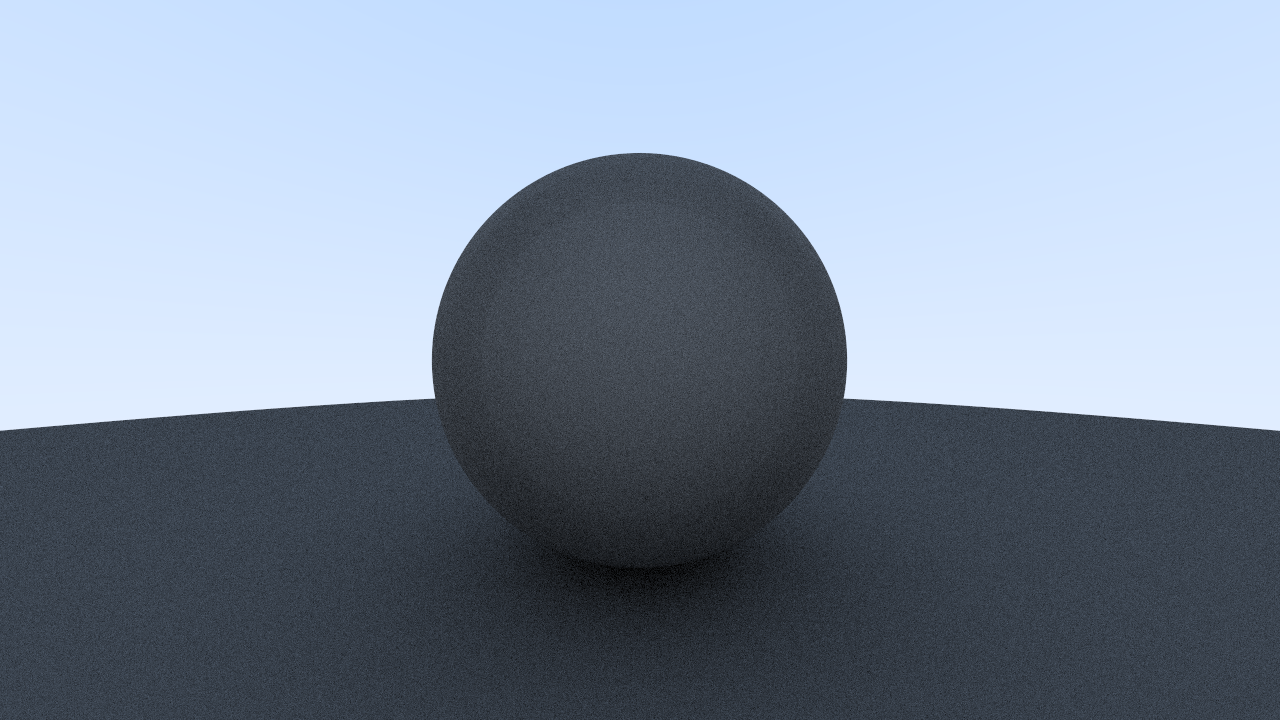
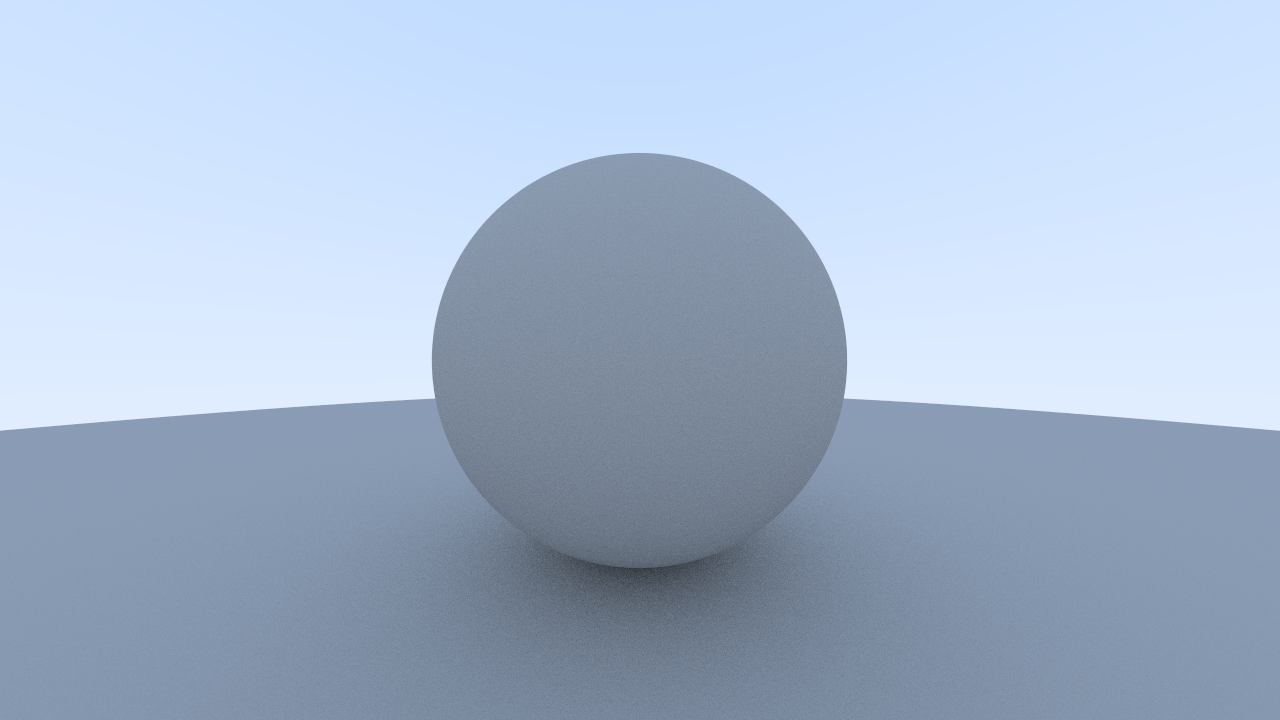
Lambertian reflection and fix shadow acne

diff --git a/main.cpp b/main.cpp
@@ -17,8 +17,10 @@ color ray_color(const ray& r, const hittable& world, int depth) {
 
     // If the world hits anything at the current ray, rec will be modified
     // with the appropriate values
-    if (world.hit(r, 0, infinity, rec)) {
-        point3 target = rec.p + rec.normal + random_in_unit_sphere();
+    // Change 0 to 0.001 as t_min can be ~0.000000001 - shadow acne
+    // https://digitalrune.github.io/DigitalRune-Documentation/html/3f4d959e-9c98-4a97-8d85-7a73c26145d7.htm
+    if (world.hit(r, 0.001, infinity, rec)) {
+        point3 target = rec.p + rec.normal + random_unit_vector();
         return 0.5 * ray_color(ray(rec.p, target - rec.p), world, depth - 1);
     }
 

diff --git a/vec3.h b/vec3.h
@@ -121,6 +121,8 @@ static inline vec3 unit_vector(vec3 v) {
     return v / v.length();
 }
 
+// Perhaps don't inline this? Function feels a little too big
+// to inline
 static vec3 random_in_unit_sphere() {
     while (true) {
         auto p = vec3::random(-1, 1);
@@ -129,4 +131,8 @@ static vec3 random_in_unit_sphere() {
         }
         return p;
     }
+}
+
+static vec3 random_unit_vector() {
+    return unit_vector(random_in_unit_sphere());
 }
